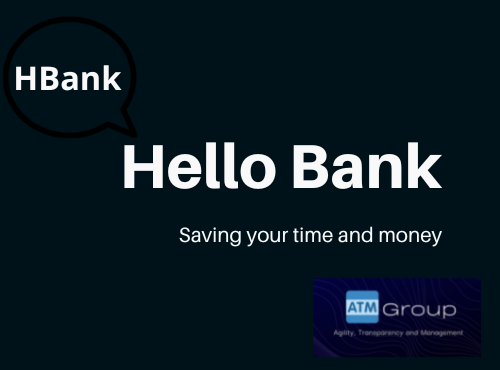
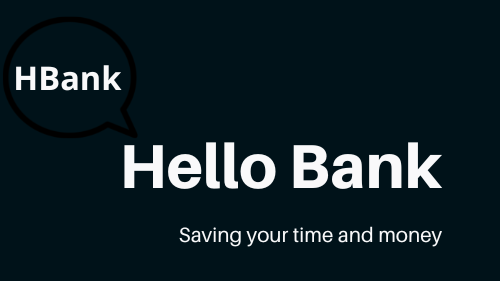
update assests archs and update readme

Changed region(s): [[0.0, 0.0285, 0.9, 0.6833], [0.36, 0.7402, 0.93, 0.968], [0.9, 0.7402, 0.93, 0.7687]]

diff --git a/README.md b/README.md
@@ -1,3 +1,5 @@
+
+
 <div align="center">
 
 # **Hello Bank**
@@ -152,7 +154,11 @@ O desafio consiste na construção de uma API para um banco fictício que irá g
 
 ## 👩🏿🤝👨🏾 DESENVOLVIDO POR:
 
-### ATM group - Agility, Transparency and Management
+<div align="justify">
+
+<img  src="./assets/logo-.jpg" width="400" />
+
+</div>
 <br>
 
 - [Bruno Moura](https://www.linkedin.com/in/brunomoura22/)
